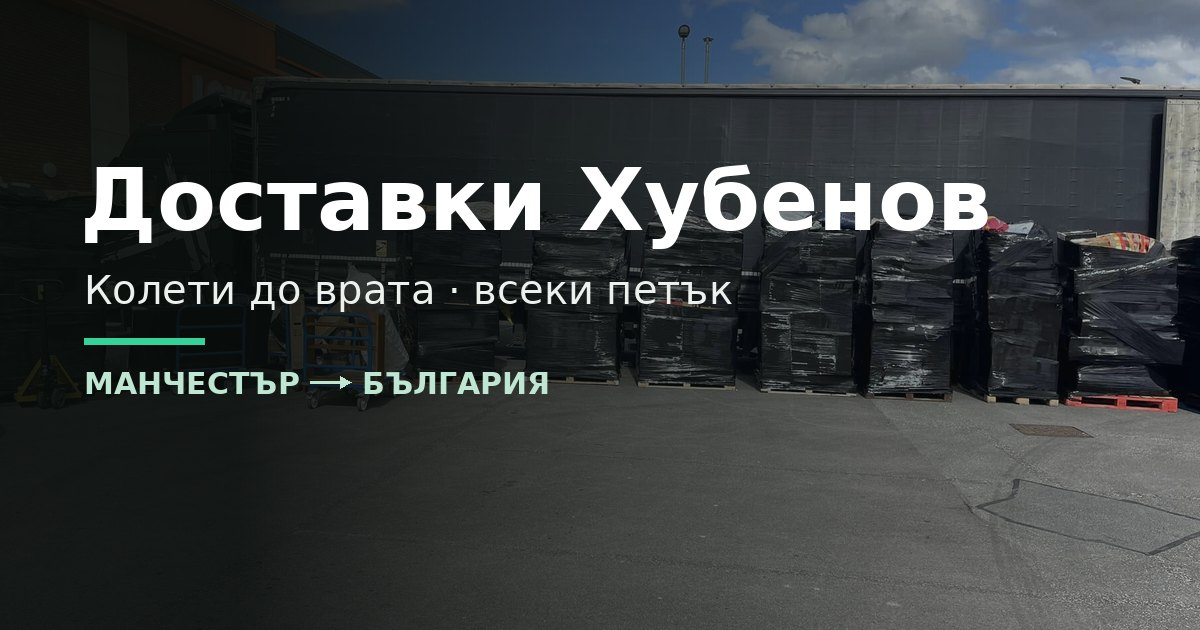
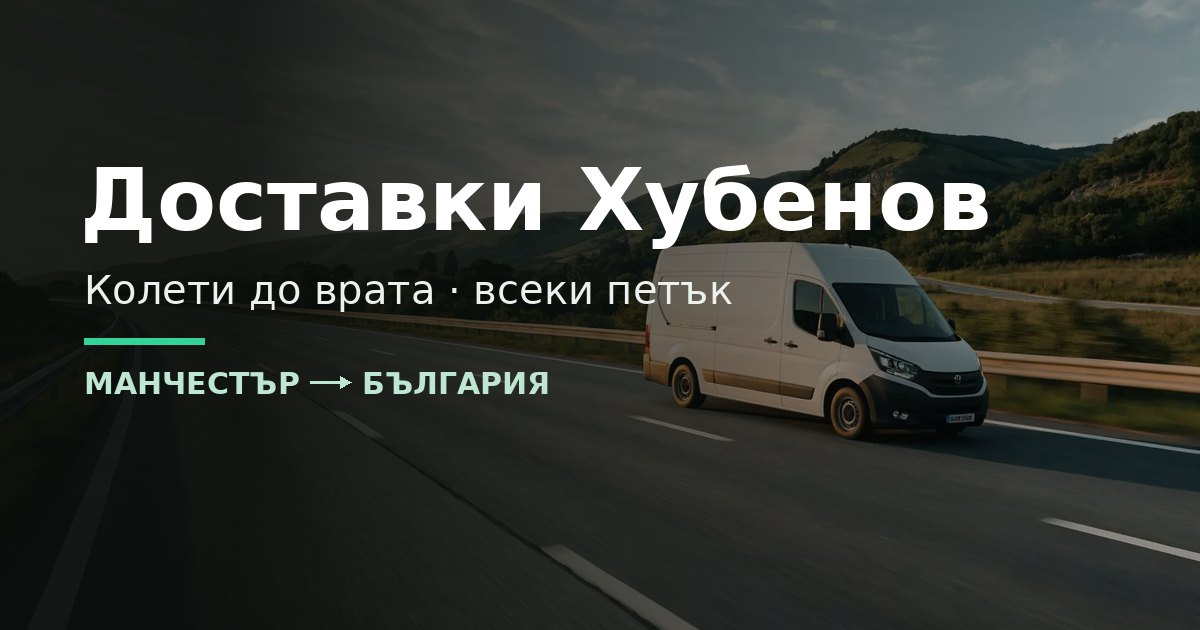
Revert to  imagery, van-loading card, real photos to About, ScrollRestoration fix

diff --git a/src/features/public/AboutPage.tsx b/src/features/public/AboutPage.tsx
@@ -142,7 +142,7 @@ export function AboutPage() {
   return (
     <>
       <ImageHero
-        image="/images/hub-interior.webp"
+        image="/images/received.webp"
         eyebrow={
           <span className="inline-flex items-center gap-2 rounded-full border border-white/20 bg-white/10 px-3 py-1 text-xs font-semibold text-white">
             <Store className="h-3.5 w-3.5" /> {L.badge}
@@ -182,12 +182,18 @@ export function AboutPage() {
             className="lg:col-span-2"
           >
             <div className="overflow-hidden rounded-3xl border border-border bg-card shadow-soft">
-              <div className="flex aspect-[4/3] flex-col items-center justify-center gap-3 bg-gradient-to-br from-brand-50 to-muted text-brand-700">
-                <Store className="h-14 w-14" />
-                <span className="font-display text-lg font-bold">{L.shop_name}</span>
-                <span className="text-sm text-muted-fg">{L.shop_sub}</span>
-              </div>
+              <img
+                src="/images/van-loading.webp"
+                alt={locale === 'bg' ? 'Товарене на буса с колети' : 'Loading parcels into the van'}
+                loading="lazy"
+                decoding="async"
+                className="aspect-[4/3] w-full object-cover"
+              />
               <div className="space-y-4 p-6">
+                <div>
+                  <p className="font-display text-lg font-bold text-foreground">{L.shop_name}</p>
+                  <p className="text-sm text-muted-fg">{L.shop_sub}</p>
+                </div>
                 <p className="text-xs font-semibold uppercase tracking-wide text-brand-700">
                   {L.shop_eyebrow}
                 </p>
@@ -248,6 +254,41 @@ export function AboutPage() {
                 </StaggerItem>
               );
             })}
+          </Stagger>
+        </div>
+      </section>
+
+      {/* Our operation — real photos */}
+      <section className="border-t border-border bg-muted/40">
+        <div className="container py-16 md:py-20">
+          <div className="mx-auto max-w-2xl text-center">
+            <h2 className="font-display text-3xl font-extrabold tracking-tight text-foreground">
+              {locale === 'bg' ? 'Нашата работа' : 'Our operation'}
+            </h2>
+            <p className="mt-3 text-muted-fg">
+              {locale === 'bg'
+                ? 'Истински курсове, истински обем — всеки петък от Манчестър за България.'
+                : 'Real runs, real volume — every Friday from Manchester to Bulgaria.'}
+            </p>
+          </div>
+          <Stagger className="mt-10 grid gap-4 sm:grid-cols-3">
+            {[
+              { src: '/images/storefront.webp', alt: locale === 'bg' ? 'Товарене в Манчестър' : 'Loading in Manchester' },
+              { src: '/images/hub-interior.webp', alt: locale === 'bg' ? 'Нашата складова база' : 'Our hub' },
+              { src: '/images/pallets.webp', alt: locale === 'bg' ? 'Палети, готови за България' : 'Pallets ready for Bulgaria' },
+            ].map((p) => (
+              <StaggerItem key={p.src}>
+                <div className="aspect-[4/3] overflow-hidden rounded-2xl border border-border shadow-soft">
+                  <img
+                    src={p.src}
+                    alt={p.alt}
+                    loading="lazy"
+                    decoding="async"
+                    className="h-full w-full object-cover transition-transform duration-500 hover:scale-105"
+                  />
+                </div>
+              </StaggerItem>
+            ))}
           </Stagger>
         </div>
       </section>

diff --git a/src/features/public/HomePage.tsx b/src/features/public/HomePage.tsx
@@ -72,7 +72,7 @@ export function HomePage() {
             image isn't present yet). */}
         <div
           className="absolute inset-0 -z-20 bg-gradient-to-br from-slate-900 via-slate-900 to-emerald-950"
-          style={{ backgroundImage: "url('/images/hero-real.webp')", backgroundSize: 'cover', backgroundPosition: 'center' }}
+          style={{ backgroundImage: "url('/images/hero-van.webp')", backgroundSize: 'cover', backgroundPosition: 'center' }}
         />
         <div className="absolute inset-0 -z-10 bg-gradient-to-r from-slate-950/55 via-slate-950/25 to-transparent" />
         <div className="absolute inset-x-0 bottom-0 -z-10 h-36 bg-gradient-to-t from-background to-transparent" />
@@ -148,39 +148,6 @@ export function HomePage() {
                 </div>
                 <h3 className="mt-4 font-display text-base font-bold text-foreground">{t(v.titleKey)}</h3>
                 <p className="mt-1.5 text-sm text-muted-fg">{t(v.textKey)}</p>
-              </div>
-            </StaggerItem>
-          ))}
-        </Stagger>
-      </Section>
-
-      {/* ── Our operation (real photos) ─────────────────────────────────── */}
-      <Section className="!pt-0 !pb-12">
-        <motion.div {...reveal} className="mb-6 text-center">
-          <h2 className="font-display text-3xl font-extrabold tracking-tight text-foreground">
-            {lang === 'bg' ? 'Нашата работа' : 'Our operation'}
-          </h2>
-          <p className="mt-2 text-muted-fg">
-            {lang === 'bg'
-              ? 'Истински курсове, истински обем — всеки петък от Манчестър за България.'
-              : 'Real runs, real volume — every Friday from Manchester to Bulgaria.'}
-          </p>
-        </motion.div>
-        <Stagger className="grid gap-4 sm:grid-cols-3">
-          {[
-            { src: '/images/storefront.webp', alt: lang === 'bg' ? 'Товарене в Манчестър' : 'Loading in Manchester' },
-            { src: '/images/hub-interior.webp', alt: lang === 'bg' ? 'Нашата складова база' : 'Our hub' },
-            { src: '/images/pallets.webp', alt: lang === 'bg' ? 'Палети, готови за България' : 'Pallets ready for Bulgaria' },
-          ].map((p) => (
-            <StaggerItem key={p.src}>
-              <div className="aspect-[4/3] overflow-hidden rounded-2xl border border-border shadow-soft">
-                <img
-                  src={p.src}
-                  alt={p.alt}
-                  loading="lazy"
-                  decoding="async"
-                  className="h-full w-full object-cover transition-transform duration-500 hover:scale-105"
-                />
               </div>
             </StaggerItem>
           ))}
@@ -343,8 +310,8 @@ export function HomePage() {
           </div>
           <div className="aspect-[4/3] overflow-hidden rounded-2xl">
             <img
-              src="/images/storefront.webp"
-              alt={lang === 'bg' ? 'Приемен пункт за товарене в Манчестър' : 'Our customer loading point in Manchester'}
+              src="/images/van-loading.webp"
+              alt={lang === 'bg' ? 'Товарене на буса с колети' : 'Loading parcels into the van'}
               loading="lazy"
               decoding="async"
               className="h-full w-full object-cover"

diff --git a/src/components/layout/AppLayout.tsx b/src/components/layout/AppLayout.tsx
@@ -1,9 +1,8 @@
-import { NavLink, Outlet, Link, useNavigate } from 'react-router-dom';
+import { NavLink, Outlet, Link, useNavigate, ScrollRestoration } from 'react-router-dom';
 import { useTranslation } from 'react-i18next';
 import { LogOut, type LucideIcon } from 'lucide-react';
 import { Suspense, useState } from 'react';
 import { Logo } from '@/components/brand/Logo';
-import { ScrollToTop } from '@/components/ScrollToTop';
 import { LanguageSwitch, ThemeToggle } from '@/components/controls';
 import { Spinner } from '@/components/ui';
 import { useAuth } from '@/lib/auth';
@@ -31,7 +30,7 @@ export function AppLayout({ items, scope }: { items: NavItem[]; scope: 'portal' 
 
   return (
     <div className="flex min-h-screen bg-muted/30">
-      <ScrollToTop />
+      <ScrollRestoration />
       {/* Sidebar */}
       <aside
         className={cn(

diff --git a/src/components/layout/PublicLayout.tsx b/src/components/layout/PublicLayout.tsx
@@ -1,9 +1,8 @@
-import { NavLink, Outlet, Link, useLocation } from 'react-router-dom';
+import { NavLink, Outlet, Link, useLocation, ScrollRestoration } from 'react-router-dom';
 import { useTranslation } from 'react-i18next';
 import { Phone, MapPin, Menu, X } from 'lucide-react';
 import { Suspense, useState, useEffect } from 'react';
 import { Logo } from '@/components/brand/Logo';
-import { ScrollToTop } from '@/components/ScrollToTop';
 import { LanguageSwitch, ThemeToggle } from '@/components/controls';
 import { Button, Spinner } from '@/components/ui';
 import { company } from '@/lib/env';
@@ -55,7 +54,7 @@ export function PublicLayout() {
 
   return (
     <div className="flex min-h-screen flex-col">
-      <ScrollToTop />
+      <ScrollRestoration />
       <header className="sticky top-0 z-50 border-b border-border/70 bg-background/85 backdrop-blur-lg">
         <div className="container flex h-16 items-center justify-between gap-4">
           <Link to="/" className="shrink-0">

diff --git a/index.html b/index.html
@@ -37,7 +37,7 @@
     <meta name="twitter:image" content="https://hubenov.delivery/og-image.jpg" />
 
     <!-- Preload the LCP hero so it paints fast on mobile -->
-    <link rel="preload" as="image" href="/images/hero-real.webp" />
+    <link rel="preload" as="image" href="/images/hero-van.webp" />
 
     <!-- Cyrillic-friendly display font (§9) — loaded without blocking render -->
     <link rel="preconnect" href="https://fonts.googleapis.com" />

diff --git a/src/features/public/CoveragePage.tsx b/src/features/public/CoveragePage.tsx
@@ -83,7 +83,7 @@ export function CoveragePage() {
 
   return (
     <>
-      <ImageHero image="/images/coverage-real.webp" title={t('nav.coverage')} subtitle={L.subtitle} />
+      <ImageHero image="/images/hero-van.webp" title={t('nav.coverage')} subtitle={L.subtitle} />
       <Section>
         {/* Two transport pillars */}
       <Stagger className="grid gap-5 md:grid-cols-2">

diff --git a/src/features/public/ServicesPage.tsx b/src/features/public/ServicesPage.tsx
@@ -72,7 +72,7 @@ export function ServicesPage() {
   return (
     <>
       <ImageHero
-        image="/images/services-real.webp"
+        image="/images/services-loading.webp"
         title={t('services.title')}
         subtitle={t('services.subtitle')}
       />